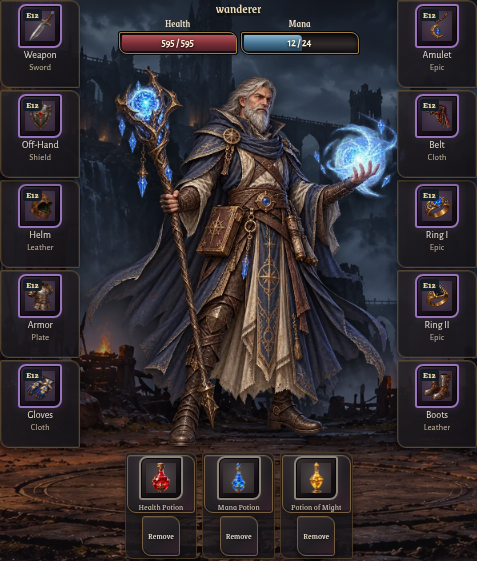
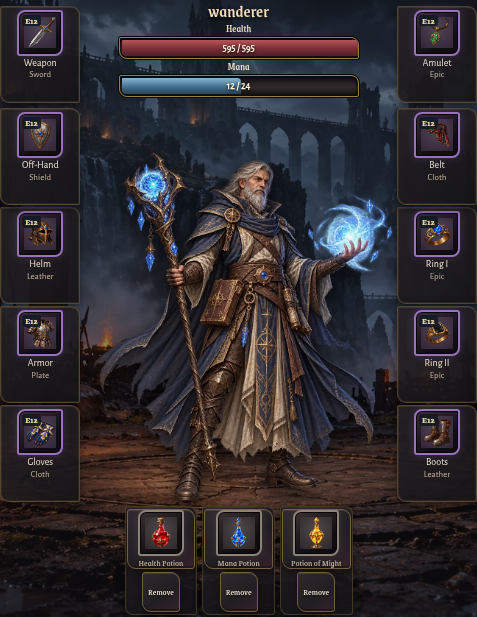
Refine Camp character and journey layout

diff --git a/online/v012-ui5-camp.css b/online/v012-ui5-camp.css
@@ -57,8 +57,9 @@ body.phase3IntegratedPreview:has(.phase3Camp) #wallet .token{
 
 /* GothicPanel / GothicFrame: CSS corners, trim and layered iron surfaces. */
 .phase3IntegratedPreview #screen>.phase3Camp{
-  --camp-slot-row:clamp(82px,10vh,110px);
-  --camp-frame-size:clamp(44px,4.5vh,50px);
+  --camp-slot-row:clamp(86px,11vh,118px);
+  --camp-vitals-row:clamp(104px,12vh,124px);
+  --camp-frame-size:clamp(46px,5vh,54px);
   --camp-item-art-size:30px;
   --camp-column-gap:4px;
   position:relative;isolation:isolate;overflow:hidden;
@@ -68,9 +69,9 @@ body.phase3IntegratedPreview:has(.phase3Camp) #wallet .token{
   background-color:var(--gothic-obsidian);
   background-image:
     linear-gradient(90deg,rgba(17,16,20,.68),rgba(17,16,20,.34) 48%,rgba(17,16,20,.63)),
-    linear-gradient(0deg,rgba(17,16,20,.4),transparent 42%,rgba(17,16,20,.22)),
+    linear-gradient(0deg,rgba(17,16,20,.62),transparent 38%,rgba(17,16,20,.22)),
     url('../assets/backgrounds/camp.webp');
-  background-position:center,center,center;
+  background-position:center,center,center 56%;
   background-size:cover;
   background-repeat:no-repeat;
   box-shadow:inset 0 0 0 1px #d8bc7d24,inset 0 0 36px #0007,0 16px 36px #0009;
@@ -89,7 +90,7 @@ body.phase3IntegratedPreview:has(.phase3Camp) #wallet .token{
     linear-gradient(var(--gothic-highlight-gold),var(--gothic-highlight-gold)) right bottom/1px 15px no-repeat;
   clip-path:polygon(0 12px,12px 0,calc(100% - 12px) 0,100% 12px,100% calc(100% - 12px),calc(100% - 12px) 100%,12px 100%,0 calc(100% - 12px));
 }
-.phase3IntegratedPreview .phase3CampGrid{position:relative;z-index:1;display:grid;min-width:0;align-items:start;gap:var(--gothic-gap);grid-template-columns:minmax(205px,.94fr) minmax(330px,1.38fr) minmax(245px,1fr);grid-template-areas:"intro hero expedition" "stats hero expedition" "journey journey journey"}
+.phase3IntegratedPreview .phase3CampGrid{position:relative;z-index:1;display:grid;min-width:0;align-items:start;gap:var(--gothic-gap);grid-template-columns:minmax(205px,.94fr) minmax(330px,1.38fr) minmax(245px,1fr);grid-template-areas:"intro hero expedition" "stats hero expedition" "journey hero expedition"}
 .phase3IntegratedPreview .phase3CampGrid>.phase3CampStatus{grid-area:intro;min-width:0;padding:6px 2px 9px;border-bottom:1px solid #9e7d444a}
 .phase3IntegratedPreview .phase3CampStatus .eyebrow{color:var(--gothic-highlight-gold);letter-spacing:.2em}
 .phase3IntegratedPreview .phase3CampStatus h1{margin:8px 0 10px;color:var(--gothic-ivory);font:500 clamp(25px,2.4vw,34px)/1.08 var(--font-display);letter-spacing:.035em;text-shadow:0 2px 9px #000}
@@ -120,12 +121,12 @@ body.phase3IntegratedPreview:has(.phase3Camp) #wallet .token{
 
 /* GothicFrame: the existing paper doll remains the only equipment renderer. */
 .phase3IntegratedPreview .phase3CampGrid>.phase3CampCharacter{grid-area:hero;position:relative;isolation:isolate;min-width:0;width:100%;max-width:none;align-self:start;margin:0;padding:0;border:0;background:transparent}
-.phase3IntegratedPreview .phase3CampCharacter .paper{position:relative;display:grid;width:100%;max-width:660px;height:auto;min-height:0;aspect-ratio:auto;grid-template-columns:minmax(62px,.9fr) minmax(0,3.5fr) minmax(62px,.9fr);grid-template-rows:repeat(5,var(--camp-slot-row)) minmax(72px,auto);column-gap:var(--camp-column-gap);row-gap:0;justify-items:center;align-items:start;overflow:visible;margin:0 auto;padding:0;border:0;border-radius:0;background:transparent;box-shadow:none}
-.phase3IntegratedPreview .phase3CampCharacter .paper>.model{position:absolute;z-index:0;top:24px;right:auto;bottom:auto;left:50%;width:calc(100% - 92px);max-width:none;height:calc(5 * var(--camp-slot-row) - 24px);object-fit:contain;object-position:center bottom;transform:translateX(-50%);transform-origin:center bottom;filter:drop-shadow(0 7px 12px #000b);mask-image:none;opacity:1;pointer-events:none}
+.phase3IntegratedPreview .phase3CampCharacter .paper{position:relative;display:grid;width:100%;max-width:660px;height:auto;min-height:0;aspect-ratio:auto;grid-template-columns:minmax(62px,.9fr) minmax(0,3.5fr) minmax(62px,.9fr);grid-template-rows:var(--camp-vitals-row) repeat(4,var(--camp-slot-row)) minmax(72px,auto);column-gap:var(--camp-column-gap);row-gap:0;justify-items:center;align-items:start;overflow:visible;margin:0 auto;padding:0;border:0;border-radius:0;background:transparent;box-shadow:none}
+.phase3IntegratedPreview .phase3CampCharacter .paper>.model{position:absolute;z-index:0;top:24px;right:auto;bottom:auto;left:50%;width:calc(100% - 92px);max-width:none;height:calc(var(--camp-vitals-row) + 4 * var(--camp-slot-row) - 24px);object-fit:contain;object-position:center bottom;transform:translateX(-50%) scale(.92);transform-origin:center bottom;filter:drop-shadow(0 7px 12px #000b);mask-image:none;opacity:1;pointer-events:none}
 .phase3IntegratedPreview .phase3CampIdentity{grid-column:2;grid-row:1;position:relative;z-index:3;display:flex;width:100%;min-width:0;flex-direction:column;align-items:center;gap:3px;padding:2px 0 0;pointer-events:none}
-.phase3IntegratedPreview .phase3CampAccountName{max-width:100%;overflow:hidden;color:#f0ddb6;font:500 13px/1.1 var(--font-head);text-align:center;text-overflow:ellipsis;text-shadow:0 2px 5px #000;white-space:nowrap}
+.phase3IntegratedPreview .phase3CampAccountName{max-width:100%;overflow:hidden;color:#f0ddb6;font:500 clamp(16px,1.2vw,18px)/1.1 var(--font-head);text-align:center;text-overflow:ellipsis;text-shadow:0 2px 5px #000;white-space:nowrap}
 .phase3IntegratedPreview .phase3CampCharacter .phase3CampHeroVitals{position:relative;z-index:3;width:100%;max-width:240px;margin:0}
-.phase3IntegratedPreview .phase3CampCharacter .phase3CampHeroVitals .phase3ResourcePanel{display:grid;grid-template-columns:repeat(2,minmax(0,1fr));gap:4px;margin:0;padding:0;border:0;border-radius:0;background:transparent;box-shadow:none}
+.phase3IntegratedPreview .phase3CampCharacter .phase3CampHeroVitals .phase3ResourcePanel{display:grid;grid-template-columns:minmax(0,1fr);gap:3px;margin:0;padding:0;border:0;border-radius:0;background:transparent;box-shadow:none}
 .phase3IntegratedPreview .phase3CampCharacter .phase3CampHeroVitals .phase3Resource>span{display:block;margin:0 0 3px;color:#eadcc7;font:500 10px/1 var(--font-head);text-align:center}
 
 /* GothicProgressBar: live width still comes from the existing HP/Mana values. */
@@ -143,6 +144,7 @@ body.phase3IntegratedPreview:has(.phase3Camp) #wallet .token{
 .phase3IntegratedPreview .phase3CampCharacter .paper>.slotTile:is([data-slot="weapon"],[data-slot="offhand"],[data-slot="helm"],[data-slot="armor"],[data-slot="gloves"]){grid-column:1}
 .phase3IntegratedPreview .phase3CampCharacter .paper>.slotTile:is([data-slot="amulet"],[data-slot="belt"],[data-slot="ring1"],[data-slot="ring2"],[data-slot="boots"]){grid-column:3}
 .phase3IntegratedPreview .phase3CampCharacter .paper>.slotTile:is([data-slot="weapon"],[data-slot="amulet"]){grid-row:1}
+.phase3IntegratedPreview .phase3CampCharacter .paper>.slotTile:is([data-slot="weapon"],[data-slot="amulet"]){align-self:center;height:calc(var(--camp-slot-row) - 2px)}
 .phase3IntegratedPreview .phase3CampCharacter .paper>.slotTile:is([data-slot="offhand"],[data-slot="belt"]){grid-row:2}
 .phase3IntegratedPreview .phase3CampCharacter .paper>.slotTile:is([data-slot="helm"],[data-slot="ring1"]){grid-row:3}
 .phase3IntegratedPreview .phase3CampCharacter .paper>.slotTile:is([data-slot="armor"],[data-slot="ring2"]){grid-row:4}
@@ -186,18 +188,18 @@ body.phase3IntegratedPreview:has(.phase3Camp) .phase3Camp [role="progressbar"]{f
 
 /* Medium landscape keeps stats/identity to the left and character centered. */
 @media(max-width:1150px) and (min-width:701px){
-  .phase3IntegratedPreview #screen>.phase3Camp{--camp-slot-row:clamp(82px,8.5vh,96px)}
-  .phase3IntegratedPreview .phase3CampGrid{grid-template-columns:minmax(215px,.92fr) minmax(300px,1.18fr);grid-template-rows:auto auto auto auto;grid-template-areas:"intro hero" "stats hero" "expedition expedition" "journey journey"}
+  .phase3IntegratedPreview #screen>.phase3Camp{--camp-slot-row:clamp(86px,9vh,96px);--camp-vitals-row:clamp(100px,11vh,110px)}
+  .phase3IntegratedPreview .phase3CampGrid{grid-template-columns:minmax(215px,.92fr) minmax(300px,1.18fr);grid-template-rows:auto auto auto auto;grid-template-areas:"intro hero" "stats hero" "journey hero" "expedition expedition"}
   .phase3IntegratedPreview .phase3ExpeditionPanel .phase3Portal{height:130px}
 }
 
 /* Mobile order: character, stats, expedition and journey after the heading. */
 @media(max-width:700px){
-  .phase3IntegratedPreview #screen>.phase3Camp{--camp-slot-row:74px;--camp-frame-size:36px;--camp-item-art-size:25px;--camp-column-gap:3px;padding:12px 12px 10px;background-position:center,center,center 42%}
+  .phase3IntegratedPreview #screen>.phase3Camp{--camp-slot-row:74px;--camp-vitals-row:96px;--camp-frame-size:36px;--camp-item-art-size:25px;--camp-column-gap:3px;padding:12px 12px 10px;background-position:center,center,center 50%}
   .phase3IntegratedPreview .phase3CampGrid{grid-template-columns:minmax(0,1fr);grid-template-rows:auto;grid-template-areas:"intro" "hero" "stats" "expedition" "journey";gap:10px}
   .phase3IntegratedPreview .phase3CampGrid>.phase3CampStatus{padding:3px 2px 8px}
-  .phase3IntegratedPreview .phase3CampCharacter .paper{max-width:470px;grid-template-columns:minmax(56px,.86fr) minmax(0,3fr) minmax(56px,.86fr);background-image:linear-gradient(to bottom,rgba(17,16,20,.08),rgba(17,16,20,.04) 68%,rgba(17,16,20,.3)),url('../assets/backgrounds/camp.webp');background-position:center,center top;background-size:100% 100%,auto 500px;background-repeat:no-repeat}
-  .phase3IntegratedPreview .phase3CampCharacter .paper>.model{top:34px;width:calc(100% - 100px);height:calc(5 * var(--camp-slot-row) - 34px)}
+  .phase3IntegratedPreview .phase3CampCharacter .paper{max-width:470px;grid-template-columns:minmax(56px,.86fr) minmax(0,3fr) minmax(56px,.86fr);background-image:linear-gradient(to bottom,rgba(17,16,20,.08),rgba(17,16,20,.04) 68%,rgba(17,16,20,.3)),url('../assets/backgrounds/camp.webp');background-position:center,center 8%;background-size:100% 100%,auto 500px;background-repeat:no-repeat}
+  .phase3IntegratedPreview .phase3CampCharacter .paper>.model{top:34px;width:calc(100% - 100px);height:calc(var(--camp-vitals-row) + 4 * var(--camp-slot-row) - 34px)}
   .phase3IntegratedPreview .phase3CampCharacter .phase3CampHeroVitals{max-width:210px}
   .phase3IntegratedPreview .phase3CampSideStats{padding:12px}
   .phase3IntegratedPreview .phase3CampStat{min-height:40px;padding:4px 6px}
@@ -209,7 +211,7 @@ body.phase3IntegratedPreview:has(.phase3Camp) .phase3Camp [role="progressbar"]{f
   .phase3IntegratedPreview:has(.phase3CampStickyStart) .container{padding-bottom:calc(108px + env(safe-area-inset-bottom))}
 }
 @media(max-width:390px){
-  .phase3IntegratedPreview #screen>.phase3Camp{--camp-slot-row:72px;--camp-frame-size:34px;--camp-item-art-size:23px}
+  .phase3IntegratedPreview #screen>.phase3Camp{--camp-slot-row:72px;--camp-vitals-row:96px;--camp-frame-size:34px;--camp-item-art-size:23px}
   .phase3IntegratedPreview .phase3CampCharacter .paper{grid-template-columns:minmax(52px,.82fr) minmax(0,3fr) minmax(52px,.82fr)}
   .phase3IntegratedPreview .phase3CampCharacter .paper>.slotTile .slotName{font-size:9px}
   .phase3IntegratedPreview .phase3CampCharacter .paper>.slotTile .slotArmorType{font-size:8px}

diff --git a/docs/v012-character-equipment-layout.md b/docs/v012-character-equipment-layout.md
@@ -1,37 +1,43 @@
-# Character & Equipment Layout
+# Camp layout refinement
 
 **Branch:** `development`  
-**Escopo:** apenas geometria e apresentação do Camp; sem alterações de gameplay, equipamento ou poções.
+**Scope:** Camp presentation only; gameplay, equipment and potion behavior are unchanged.
 
-## Diagnóstico e alterações
+## Changes
 
-O painel central usava cinco linhas de equipamento com altura fixa de 82px. A altura do retrato acompanhava a grelha, mas a arte era limitada pela largura da coluna; por isso, o espaço adicional abaixo e entre linhas não era bem aproveitado. No desktop, `Your Journey` ocupava apenas as colunas de Stats e Character, deixando a coluna Expedition fora da secção inferior.
+- Shifted the Camp backdrop upward and strengthened its lower gradient to keep the taller layout legible.
+- Reduced the character artwork uniformly to make room for the compact name and stacked Health/Mana bars above it. The player name is larger; Health appears above Mana.
+- Kept the ten equipment slots and three potion slots in the existing panel.
+- Limited `Your Journey` to the left-hand column on desktop and tablet, leaving the lower center/right space open. Mobile keeps its existing vertical order.
+- Updated the Camp browser checks for the new layout and HUD order.
 
-Em `online/v012-ui5-camp.css`, as linhas desktop agora variam com a altura do viewport, com limites para ecrãs baixos e altos. A coluna de personagem cresce proporcionalmente dentro do espaço disponível; as molduras também podem aumentar ligeiramente em ecrãs altos. `Your Journey` ocupa uma linha própria abaixo das três áreas. A disposição tablet coloca Expedition antes de Journey; mobile mantém a ordem existente. Background, botão ilustrado, funcionamento e geometria mobile da personagem foram preservados.
+## Chromium measurements
 
-## Medidas Chromium
+Character panel dimensions in CSS pixels; portrait measurements are the rendered artwork bounds.
 
-| Viewport | Área Character antes → depois | Arte antes → depois |
+| Viewport | Panel before → after | Portrait before → after |
 |---|---:|---:|
-| 768×1024 | 389×521 → 389×548 px | 253×267 → 275×290 px |
-| 1440×900 | 476×521 → 476×561 px | 333×352 → 356×376 px |
-| 1920×1080 | 476×521 → 476×655 px | 333×352 → 356×376 px |
+| 375×812 | 329×461 → 329×485 | 212×224 → 195×206 |
+| 768×1024 | 389×548 → 389×597 | 275×290 → 253×267 |
+| 1440×900 | 476×561 → 476×617 | 356×376 → 327×345 |
+| 1920×1080 | 476×655 → 476×717 | 356×376 → 327×345 |
 
-Em 375×812, a área Character manteve 329×461 px. O harness verificou overflow horizontal, imagens, alvos clicáveis, alinhamento e que Journey fica abaixo de Character, Stats e Expedition e ocupa a largura disponível.
+The panel grew vertically to fit the HUD row and more evenly spaced slots; the portrait itself is smaller. Tests also covered 360×780, 390×844, 430×932 and 1024×768, checking horizontal overflow, image proportions, slot interactions, and `Your Journey` placement.
 
-## Capturas
+## Screenshots
 
-Capturas completas antes/depois e recortes de Character foram produzidos por Playwright/Chromium com a mesma fixture sintética determinística:
+Playwright/Chromium captures use the same synthetic fixture before and after:
 
-- [Camp desktop 1440 antes](v012-character-equipment-layout/screenshots/before/camp-1440.png) · [depois](v012-character-equipment-layout/screenshots/after/camp-1440.png)
-- [Camp desktop 1920 antes](v012-character-equipment-layout/screenshots/before/camp-1920.png) · [depois](v012-character-equipment-layout/screenshots/after/camp-1920.png)
-- [Camp mobile 375 antes](v012-character-equipment-layout/screenshots/before/camp-375.png) · [depois](v012-character-equipment-layout/screenshots/after/camp-375.png)
-- Recortes de Character para 360, 375, 390, 430, 768, 1024, 1440 e 1920 estão nas mesmas pastas `before/` e `after/`.
+- [Camp desktop 1440 before](v012-character-equipment-layout/screenshots/before/camp-1440.png) · [after](v012-character-equipment-layout/screenshots/after/camp-1440.png)
+- [Camp desktop 1920 before](v012-character-equipment-layout/screenshots/before/camp-1920.png) · [after](v012-character-equipment-layout/screenshots/after/camp-1920.png)
+- [Camp mobile 375 before](v012-character-equipment-layout/screenshots/before/camp-375.png) · [after](v012-character-equipment-layout/screenshots/after/camp-375.png)
+- Character crops for 360, 375, 390, 430, 768, 1024, 1440 and 1920 are in the corresponding `before/` and `after/` directories.
 
-## Validação
+## Validation
 
-- `node tests/v012-ui8b-camp-browser.cjs` — **PASS** em 360×780, 375×812, 390×844, 430×932, 768×1024, 1024×768, 1440×900 e 1920×1080.
-- `node tests/v012-ui8-camp-browser.cjs` — **PASS** em 360×780, 390×844, 768×1024, 1024×768 e 1440×900.
+- `node tests/v012-ui8b-camp-browser.cjs` — **PASS**, 8 viewports (360×780 through 1920×1080).
+- `node tests/v012-ui8-camp-browser.cjs` — **PASS**, 5 viewports (360×780 through 1440×900).
 - `git diff --check` — **PASS**.
+- Safari — not tested.
 
-A validação foi feita em Chromium; Safari não foi testado nesta alteração. Os testes usam fixtures sintéticas e não escrevem saves reais. O trabalho permanece local em `development`, sem commit ou push.
+Browser tests used synthetic data and did not touch real saves. Changes remain local on `development`, without commit or push.
